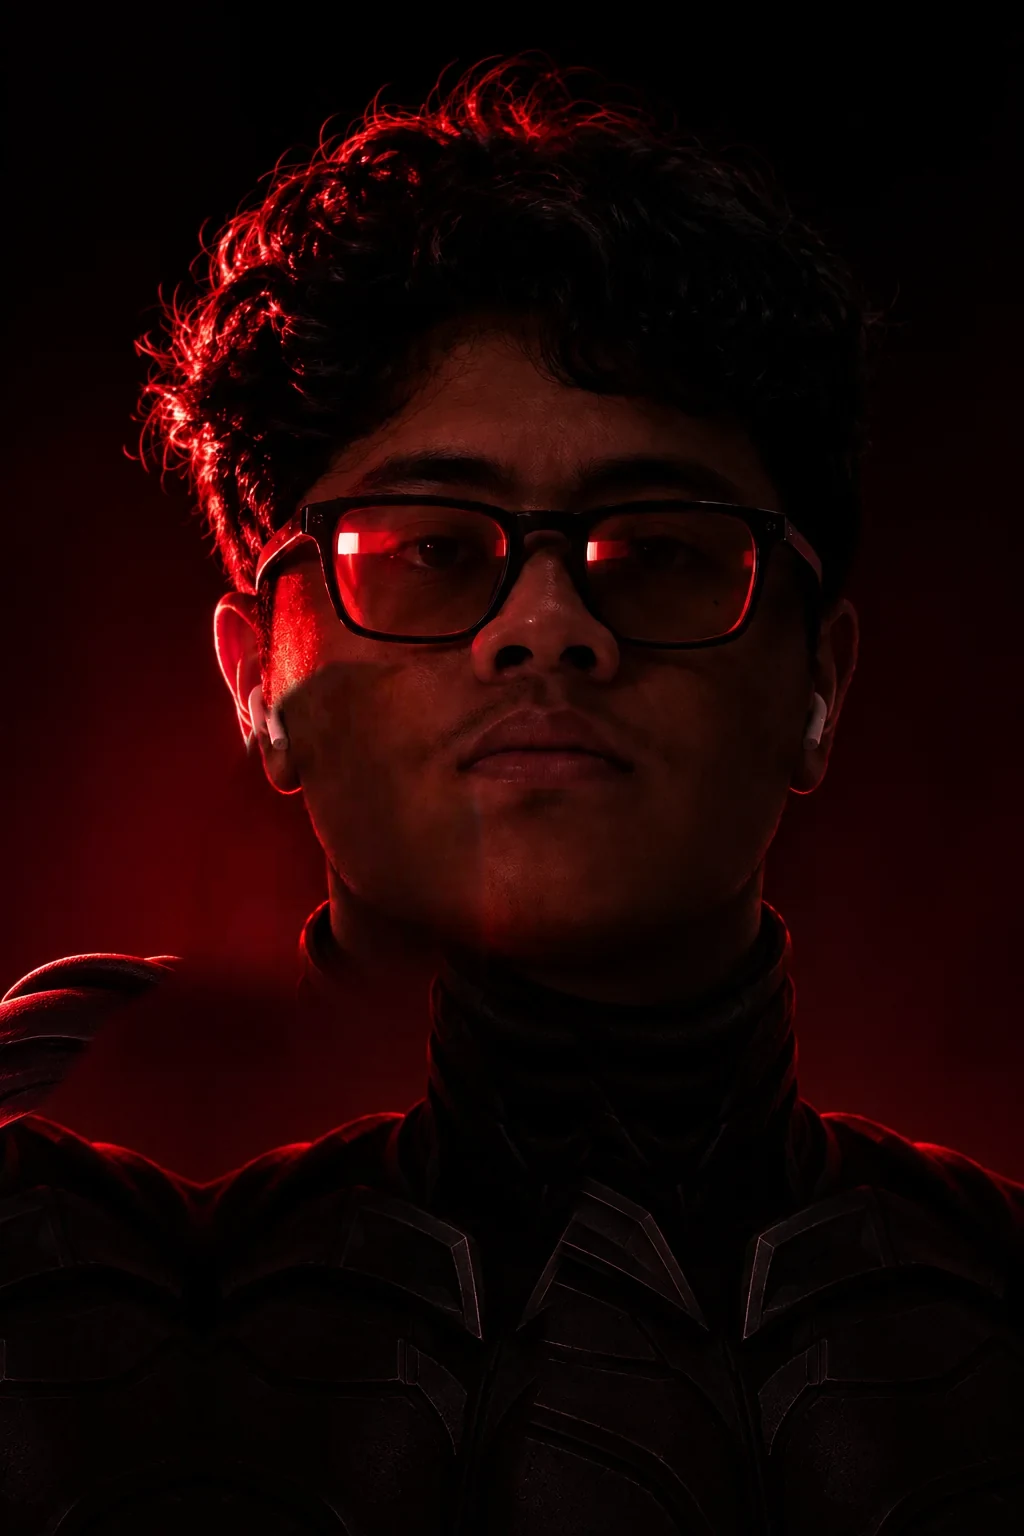
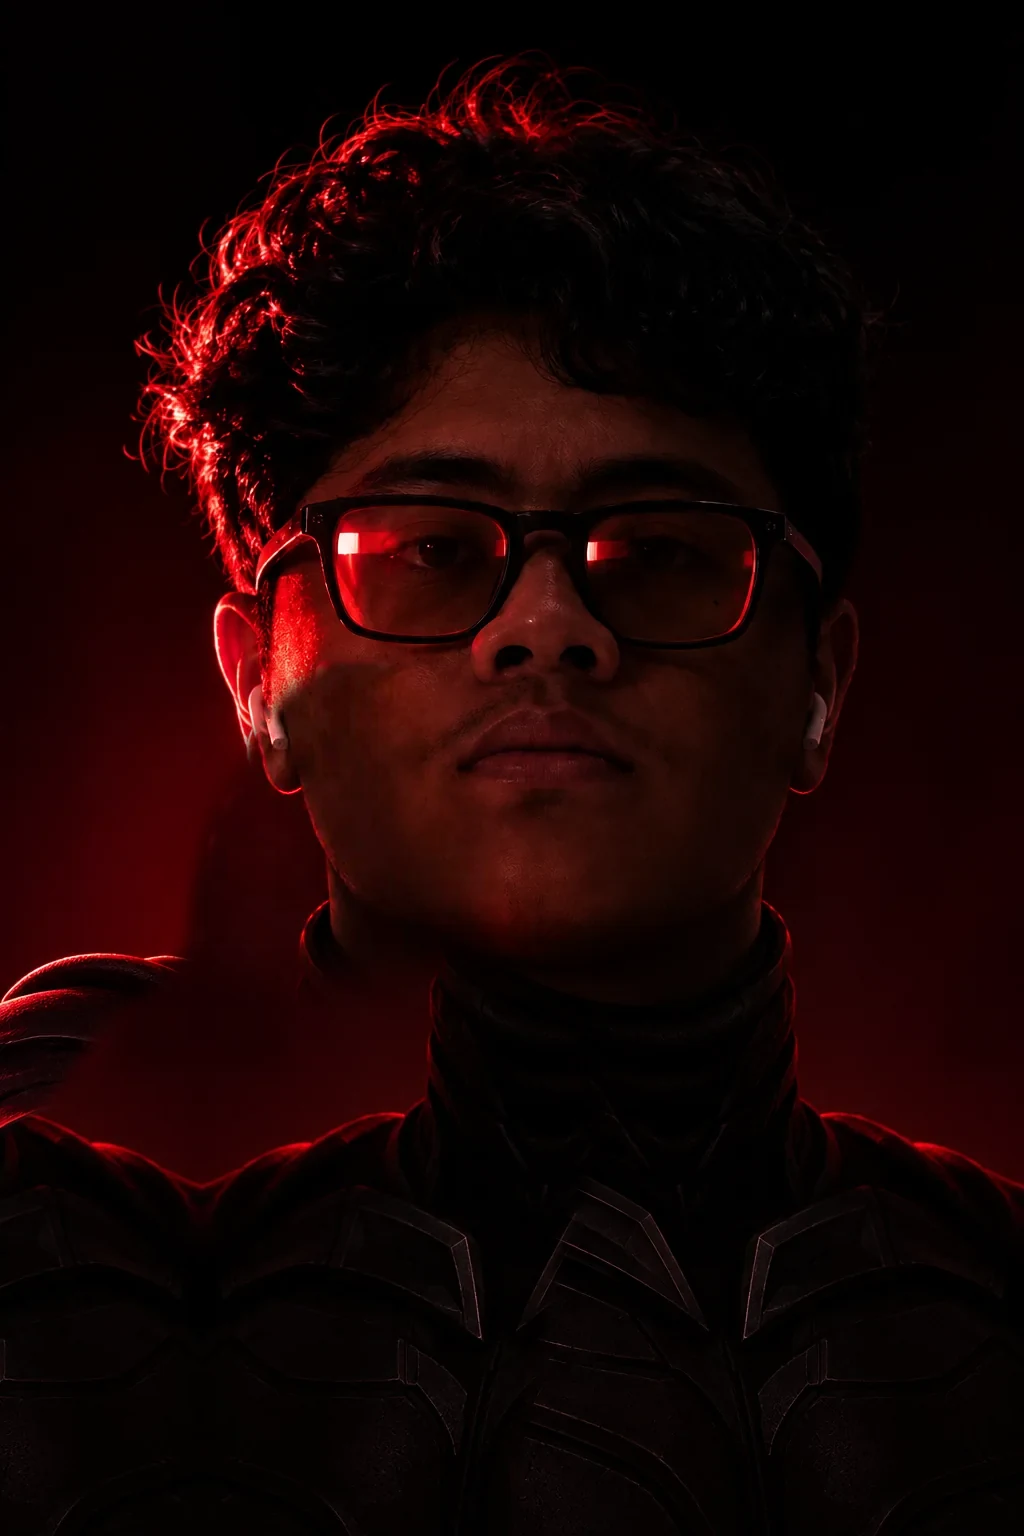
fix(honeypot): version plate URLs, guard atlas grid, clean aim cheek

Changed region(s): [[0.1562, 0.5312, 0.3438, 0.6562]]

diff --git a/resources/js/honeypot.js b/resources/js/honeypot.js
@@ -1255,6 +1255,10 @@ const horror = (() => {
         { key: 'flash', src: `${ART}muzzle-flash.webp`, from: 26.0, until: 27.4 },
         { key: 'crack', src: `${ART}glass-crack.webp`, from: 26.0, until: 28.6 },
     ];
+    // The server caches images for 30 days and JSON not at all, so a rebuilt atlas could meet its new JSON in a browser
+    // that still holds the old picture. Every plate carries the build version, so a new build is always a new URL.
+    const ART_V = '2611192';
+    ASSETS.forEach((a) => { a.src += `?v=${ART_V}`; });
     const asset = (key) => ASSETS.find((a) => a.key === key);
     const needed = (a, u) => a.from <= u + 0.25 && a.until > u;
     // True when every plate the moment u needs is decoded (a plate that failed to load counts: the scene just stays dark there).
@@ -1495,6 +1499,19 @@ const horror = (() => {
             return;
         }
         const m = { cellW: 296, cellH: 408, anchorX: 148, anchorY: 390, cols: 6, frames: 30, ...((asset('wlkjson') || {}).data || {}) };
+        // The cells must tile the picture exactly. If they do not (an old picture with a new JSON, or the reverse), the grid
+        // is taken from the picture itself and the anchor moves with it, so a frame never shows a piece of its neighbour.
+        const rows = Math.ceil(m.frames / m.cols);
+        const sw = src.width || src.naturalWidth;
+        const shh = src.height || src.naturalHeight;
+        if (sw !== m.cellW * m.cols || shh !== m.cellH * rows) {
+            const cw = Math.floor(sw / m.cols);
+            const chh = Math.floor(shh / rows);
+            m.anchorX = Math.round((m.anchorX / m.cellW) * cw);
+            m.anchorY = Math.min(chh, Math.round((m.anchorY / m.cellH) * chh));
+            m.cellW = cw;
+            m.cellH = chh;
+        }
         const scale = fig.h / m.anchorY;
         fig.cw = Math.round(m.cellW * scale);
         [figCanvas, shadowEl, reflectEl].forEach((cv) => {

diff --git a/scripts/build_honeypot_aim.py b/scripts/build_honeypot_aim.py
@@ -22,7 +22,7 @@ ROOT = Path(__file__).resolve().parent.parent
 OUT = ROOT / "public" / "img" / "honeypot"
 AXIS = 545.0
 CHEST0, CHEST_AXIS = 600, 612  # the chest fold: the source strip starts at x = 600; the fold line sits just right of the mask
-OUTLINE = [(330, 664), (398, 668), (430, 722), (466, 782), (478, 860), (482, 984), (522, 998), (572, 1040), (590, 1110), (580, 1182),
+OUTLINE = [(330, 664), (398, 668), (436, 722), (478, 782), (493, 860), (497, 984), (530, 998), (572, 1040), (590, 1110), (580, 1182),
            (554, 1242), (542, 1322), (526, 1402), (512, 1472), (508, 1536), (0, 1536), (0, 1162), (22, 1130), (62, 1090), (112, 1022),
            (168, 984), (190, 950), (196, 890), (212, 820), (244, 760), (282, 704)]
 
@@ -48,9 +48,11 @@ def main():
     # The real left side of the face is lit warmer than the mirrored right cheek. Compare both along the ring just outside
     # the outline (the face and the neck only, not the glove) and spread the ratio inwards, so the fill takes the light of its
     # surroundings and no darker patch is left on the cheek.
-    k = 7
-    ring = (cv2.dilate(m, np.ones((2 * 26 + 1, 2 * 26 + 1), np.uint8)) > 0) & (cv2.dilate(m, np.ones((7, 7), np.uint8)) == 0)
-    ring &= (np.arange(h)[:, None] < 975) & (np.arange(h)[:, None] > 600)
+    # Only the skin just above the hole is trusted: the wall and the neck beside it differ between the two halves of the plate
+    # and would drag the cheek towards the wrong colour.
+    ys, xs = np.mgrid[0:h, 0:w]
+    ring = (cv2.dilate(m, np.ones((2 * 14 + 1, 2 * 14 + 1), np.uint8)) > 0) & (cv2.dilate(m, np.ones((7, 7), np.uint8)) == 0)
+    ring &= ((ys > 600) & (ys < 735) & (xs > 270) & (xs < 480)) | ((ys >= 735) & (ys < 985) & (xs > 440))
     blur_o = cv2.GaussianBlur(rgb.astype(np.float32), (0, 0), 6)
     blur_f = cv2.GaussianBlur(fill, (0, 0), 6)
     ratio = (blur_o + 6.0) / (blur_f + 6.0)
@@ -61,7 +63,7 @@ def main():
     gain = np.ones_like(gain_src)
     acc = np.zeros_like(gain_src)
     wacc = np.zeros((h, w), np.float32)
-    for sg in (10, 22, 46, 90):
+    for sg in (6, 14, 30, 60, 120):
         num = cv2.GaussianBlur(gain_src, (0, 0), sg)
         den = cv2.GaussianBlur(known, (0, 0), sg)
         est = num / np.maximum(den[..., None], 1e-4)
@@ -71,7 +73,7 @@ def main():
     gain = acc + (1 - wacc)[..., None]
     face_w = 1 - wy  # the correction fades out down the chest, where the fill already continues the armour
     fill = fill * (1 + (gain - 1) * face_w)
-    soft = cv2.GaussianBlur(grow.astype(np.float32) / 255.0, (0, 0), 4.0)[..., None]
+    soft = cv2.GaussianBlur(grow.astype(np.float32) / 255.0, (0, 0), 7.0)[..., None]
     clean = (fill * soft + rgb.astype(np.float32) * (1 - soft)).clip(0, 255).astype(np.uint8)
     Image.fromarray(clean).save(OUT / "aim-clean.webp", quality=88, method=6)
 

diff --git a/README.md b/README.md
@@ -282,7 +282,7 @@ The barrel safe zone: from `aim-pose.webp` the slide and the muzzle plus a 20 pe
 
 The pistol only ever points at the lens, there is no blood, and the owner is called only "Vassell Enha" or "the owner". His photo is used as given: lighting only hides or reveals the face and nothing is retouched or generated.
 
-How it is built: one `requestAnimationFrame` loop with a delta clock drives every layer, the camera, the HUD, the one-shot sounds and the cue track, and every frame is a pure function of that clock, so a seek (refresh, new tab) renders the exact state. The plates are laid out as 3:2 sheets with "cover" geometry, in three parallax groups (far wall, mid with the sandwich and the owner, near pipes) on one slow eased dolly (two overlapping eases, so it never stops) with handheld drift made of three sines per axis at frequencies that never line up, four to six frames of micro-shake on the heavy steps, and a quantized depth-of-field blur. Every move is built from three curves, `outCubic`, `inOut` (in-out cubic) and a small `outBack`, plus a damped spring for the recoil; the smooth step is used only for light and opacity. The owner is drawn on a canvas and moved by one gait. The owner is a walk atlas, `walk-atlas.webp` (30 frames in a 6 by 5 grid of 432 by 743 cells, about 1 MB, built by `scripts/build_honeypot_walk.py` from the sharp `character-fullbody.webp` cutout with a small rig: each leg is its own polygon with its own half cycle offset, the cape lags and ripples at the hem, and the body bobs, sways and rolls, so both legs really move, the loop is exact and nothing is resampled or blurred) with `walk-atlas.json` for the cell geometry. The frame is chosen by the distance he has travelled, not by a timer, so the feet change without sliding; each stride stops on a foot contact frame, a 250 ms settle follows and the cloak overshoots a little (`gait.over`). The shadow and the wet reflection are redrawn from the frame on screen, and his height never goes over about 62 percent of the screen height. All sprite animation (walk, door, dust) is drawn at 15 frames per second (10 with `is-lite` or reduced motion, and no dust there), and a canvas is redrawn only when its frame index changes; the camera, parallax, fog and fades stay CSS transform and opacity. The atlases are decoded once with `createImageBitmap`, there is one canvas for the figure and one for the door, and nothing is drawn while the tab is hidden. The door is the same idea: 18 frames in `door-atlas.webp` (a leaf warped from the closed plate and its back face, a red gap slit and a floor shadow in every frame) over `room-open-nodoor.webp`, with the closed plate cut open over the leaf; the leaf angle follows the timeline, so a seek at 8.4 s shows the half open door. The egg sandwich on the left shelf follows the room layer, crossfades to its lit version as the door opens, catches one slow glint once the door is fully open and plays a crunch when it is clicked or tapped. If the atlas fails to load, or `prefers-reduced-motion` is on, the standing cutout `character-fullbody.webp` is used as before, drawn as 16 horizontal strips (9 in lighter mode, 8 if the phone starts to drop frames), and the door is a 400 ms fade with no shake. Both are moved by one gait: a stride is a run of steps, each step is one phase from 0 to 1 between two heel strikes, and that phase drives the vertical bob (two peaks per two steps), a shoulder roll of 1.2 degrees about the hips, a weight shift of 6 px and a small scale rise at each heel strike, all scaled by his speed; in the fallback the strips follow his weight shift 120 to 180 ms late, the hem the latest; his floor shadow is a skewed, stretched, blurred copy of the silhouette and the wet reflection a flipped, faded copy, driven by the same position value as the body. Plates load in order of need with `img.decode()`; the black boot shows immediately, and the visual clock waits for the plates the next moment needs, then catches up slightly faster than real time (a resume only loads what the current moment needs). The aim plate is composed for the screen: a portrait phone shows it natively, a landscape screen shows about 70 percent of its height at under 1x scale with the dark red sides extended by a mask, and the upscale is capped at 1.5x. Typography is Oswald for the subtitle, IBM Plex Mono for its tag and the Kewer terminal, Bagel Fat One for DISCONNECTED and Space Mono for the HUD, loaded on this page only and checked with `FontFace` status before the text is read, with a fallback stack of Baloo 2 and system fonts. The pistol in the aim plate is baked into the photo, so `scripts/build_honeypot_aim.py` traces its outline, fills the hole from the mirrored face and a folded chest and matches the tone to the face edge to make `aim-clean.webp`, and cuts the pistol and hand out as `aim-gun.webp`; the pistol then rises as a separate layer and the whole plate takes over 150 ms after it settles, which is the same picture. Sound is one-shot effects with real silence in between, no loop and no drone, scheduled on the audio clock from the master timeline (a reload at second N resumes without replaying old sounds). Every voice has at least two layers and runs through its own gain (plus or minus 1.5 dB), random pitch (plus or minus 4 percent), a low-pass that closes with distance, a stereo pan (the footsteps follow him from left to right) and a 15 to 35 percent send to a procedurally generated cold-room reverb (1.8 s of decaying noise, 2.8 s for the shot), then one master gain and a compressor (threshold -18 dB, ratio 4:1, attack 5 ms, release 180 ms). The gunshot bypasses the duck, the glass follows it by 60 ms, and the power-off is a falling whine and a small pop. Real recordings are optional: put any of `door-creak`, `footstep-wet`, `drip`, `heavy-thud`, `cape-rustle`, `fluorescent-buzz`, `gunshot`, `glass-crack`, `zap`, `crt-off` or `stinger` (mp3, ogg, wav or m4a) in `public/audio/honeypot/`; the server lists the files that exist, the browser loads them with `fetch` and `decodeAudioData`, and a missing or broken file keeps the synthesized layers. Seven are bundled (`door-creak`, `footstep-wet` from a single step of a stairs recording, `drip`, `glass-crack`, `gunshot`, `zap` from a TV static clip and `crt-off` from a no-signal tone, each trimmed, mono and peak normalized, about 150 KB together); `heavy-thud`, `cape-rustle`, `fluorescent-buzz` and `stinger` stay synthesized. A recording has one loudness, so the footstep, stinger and thud intensity becomes its gain. The Suno cue `public/audio/honeypot-cue.mp3` (29.8 s) is fetched and decoded once and played once through the same master bus (compressor and a small reverb send) from an `AudioBufferSourceNode`, so it is sample accurate with the timeline and a reload at second N starts it at the matching second of the file. The file is placed, not stretched: its loudest bar (second 25.0) sits on the start of the face reveal (24.0 s), so it starts 1.0 s into the file and a `stop()` scheduled on the audio clock cuts it hard at the shot (26.6 s). Its gain is silent until the door opens, swells in as he appears, is strongest on the approach, climbs to its climax from the reveal at 0.55 before the bus, ducks only 4 dB under dialogue and effects, has one 300 ms gap right before the shot and nothing after it; if the decode fails, a plain `Audio` element plays the same file with the same envelope. Sound starts on load where the browser allows it. Where it does not, a dark CCTV card ("SINYAL TERTAHAN / KETUK UNTUK MELANJUTKAN") appears over the feed and any tap or key starts the sound and removes it; the timeline never waits for it and the card says nothing about leaving. There is no mute control.
+How it is built: one `requestAnimationFrame` loop with a delta clock drives every layer, the camera, the HUD, the one-shot sounds and the cue track, and every frame is a pure function of that clock, so a seek (refresh, new tab) renders the exact state. The plates are laid out as 3:2 sheets with "cover" geometry, in three parallax groups (far wall, mid with the sandwich and the owner, near pipes) on one slow eased dolly (two overlapping eases, so it never stops) with handheld drift made of three sines per axis at frequencies that never line up, four to six frames of micro-shake on the heavy steps, and a quantized depth-of-field blur. Every move is built from three curves, `outCubic`, `inOut` (in-out cubic) and a small `outBack`, plus a damped spring for the recoil; the smooth step is used only for light and opacity. The owner is drawn on a canvas and moved by one gait. The owner is a walk atlas, `walk-atlas.webp` (30 frames in a 6 by 5 grid of 432 by 743 cells, about 1 MB, built by `scripts/build_honeypot_walk.py` from the sharp `character-fullbody.webp` cutout with a small rig: each leg is its own polygon with its own half cycle offset, the cape lags and ripples at the hem, and the body bobs, sways and rolls, so both legs really move, the loop is exact and nothing is resampled or blurred) with `walk-atlas.json` for the cell geometry. The frame is chosen by the distance he has travelled, not by a timer, so the feet change without sliding; each stride stops on a foot contact frame, a 250 ms settle follows and the cloak overshoots a little (`gait.over`). The shadow and the wet reflection are redrawn from the frame on screen, and his height never goes over about 62 percent of the screen height. All sprite animation (walk, door, dust) is drawn at 15 frames per second (10 with `is-lite` or reduced motion, and no dust there), and a canvas is redrawn only when its frame index changes; the camera, parallax, fog and fades stay CSS transform and opacity. Every plate URL carries a build version (`ART_V` in `resources/js/honeypot.js`, bump it whenever an image in `public/img/honeypot/` is rebuilt), because the server caches images for 30 days but not JSON, and a cached old atlas with a new `walk-atlas.json` would draw pieces of the neighbouring frames; if the cells still do not tile the picture exactly, the grid is taken from the picture itself. The atlases are decoded once with `createImageBitmap`, there is one canvas for the figure and one for the door, and nothing is drawn while the tab is hidden. The door is the same idea: 18 frames in `door-atlas.webp` (a leaf warped from the closed plate and its back face, a red gap slit and a floor shadow in every frame) over `room-open-nodoor.webp`, with the closed plate cut open over the leaf; the leaf angle follows the timeline, so a seek at 8.4 s shows the half open door. The egg sandwich on the left shelf follows the room layer, crossfades to its lit version as the door opens, catches one slow glint once the door is fully open and plays a crunch when it is clicked or tapped. If the atlas fails to load, or `prefers-reduced-motion` is on, the standing cutout `character-fullbody.webp` is used as before, drawn as 16 horizontal strips (9 in lighter mode, 8 if the phone starts to drop frames), and the door is a 400 ms fade with no shake. Both are moved by one gait: a stride is a run of steps, each step is one phase from 0 to 1 between two heel strikes, and that phase drives the vertical bob (two peaks per two steps), a shoulder roll of 1.2 degrees about the hips, a weight shift of 6 px and a small scale rise at each heel strike, all scaled by his speed; in the fallback the strips follow his weight shift 120 to 180 ms late, the hem the latest; his floor shadow is a skewed, stretched, blurred copy of the silhouette and the wet reflection a flipped, faded copy, driven by the same position value as the body. Plates load in order of need with `img.decode()`; the black boot shows immediately, and the visual clock waits for the plates the next moment needs, then catches up slightly faster than real time (a resume only loads what the current moment needs). The aim plate is composed for the screen: a portrait phone shows it natively, a landscape screen shows about 70 percent of its height at under 1x scale with the dark red sides extended by a mask, and the upscale is capped at 1.5x. Typography is Oswald for the subtitle, IBM Plex Mono for its tag and the Kewer terminal, Bagel Fat One for DISCONNECTED and Space Mono for the HUD, loaded on this page only and checked with `FontFace` status before the text is read, with a fallback stack of Baloo 2 and system fonts. The pistol in the aim plate is baked into the photo, so `scripts/build_honeypot_aim.py` traces its outline, fills the hole from the mirrored face and a folded chest and matches the tone to the face edge to make `aim-clean.webp`, and cuts the pistol and hand out as `aim-gun.webp`; the pistol then rises as a separate layer and the whole plate takes over 150 ms after it settles, which is the same picture. Sound is one-shot effects with real silence in between, no loop and no drone, scheduled on the audio clock from the master timeline (a reload at second N resumes without replaying old sounds). Every voice has at least two layers and runs through its own gain (plus or minus 1.5 dB), random pitch (plus or minus 4 percent), a low-pass that closes with distance, a stereo pan (the footsteps follow him from left to right) and a 15 to 35 percent send to a procedurally generated cold-room reverb (1.8 s of decaying noise, 2.8 s for the shot), then one master gain and a compressor (threshold -18 dB, ratio 4:1, attack 5 ms, release 180 ms). The gunshot bypasses the duck, the glass follows it by 60 ms, and the power-off is a falling whine and a small pop. Real recordings are optional: put any of `door-creak`, `footstep-wet`, `drip`, `heavy-thud`, `cape-rustle`, `fluorescent-buzz`, `gunshot`, `glass-crack`, `zap`, `crt-off` or `stinger` (mp3, ogg, wav or m4a) in `public/audio/honeypot/`; the server lists the files that exist, the browser loads them with `fetch` and `decodeAudioData`, and a missing or broken file keeps the synthesized layers. Seven are bundled (`door-creak`, `footstep-wet` from a single step of a stairs recording, `drip`, `glass-crack`, `gunshot`, `zap` from a TV static clip and `crt-off` from a no-signal tone, each trimmed, mono and peak normalized, about 150 KB together); `heavy-thud`, `cape-rustle`, `fluorescent-buzz` and `stinger` stay synthesized. A recording has one loudness, so the footstep, stinger and thud intensity becomes its gain. The Suno cue `public/audio/honeypot-cue.mp3` (29.8 s) is fetched and decoded once and played once through the same master bus (compressor and a small reverb send) from an `AudioBufferSourceNode`, so it is sample accurate with the timeline and a reload at second N starts it at the matching second of the file. The file is placed, not stretched: its loudest bar (second 25.0) sits on the start of the face reveal (24.0 s), so it starts 1.0 s into the file and a `stop()` scheduled on the audio clock cuts it hard at the shot (26.6 s). Its gain is silent until the door opens, swells in as he appears, is strongest on the approach, climbs to its climax from the reveal at 0.55 before the bus, ducks only 4 dB under dialogue and effects, has one 300 ms gap right before the shot and nothing after it; if the decode fails, a plain `Audio` element plays the same file with the same envelope. Sound starts on load where the browser allows it. Where it does not, a dark CCTV card ("SINYAL TERTAHAN / KETUK UNTUK MELANJUTKAN") appears over the feed and any tap or key starts the sound and removes it; the timeline never waits for it and the card says nothing about leaving. There is no mute control.
 
 Accessibility and safety: nothing flashes faster than three times a second and every flicker in the cold room is dark on dark; the door light and the face key light are gradual ramps. The muzzle flash is the only intentionally bright moment: it happens once, stays local to the face and the haze, and decays in 2 to 3 frames. With `prefers-reduced-motion` the trap, the shot, the text and the cut to Kewer stay, but the walk becomes a fade-in and the camera drift, shake, recoil, the pistol rise, the rack focus, tears and flicker are dropped, the flash becomes a soft 200 ms glow and the fades are slow. A lighter mode (4 cores or fewer, or under 640 px wide) uses fewer strips, no focus blur and fewer particles, and a phone that averages below about 42 fps for a few seconds is switched to it on the fly, along with a plain blend for the cracked lens.
 
